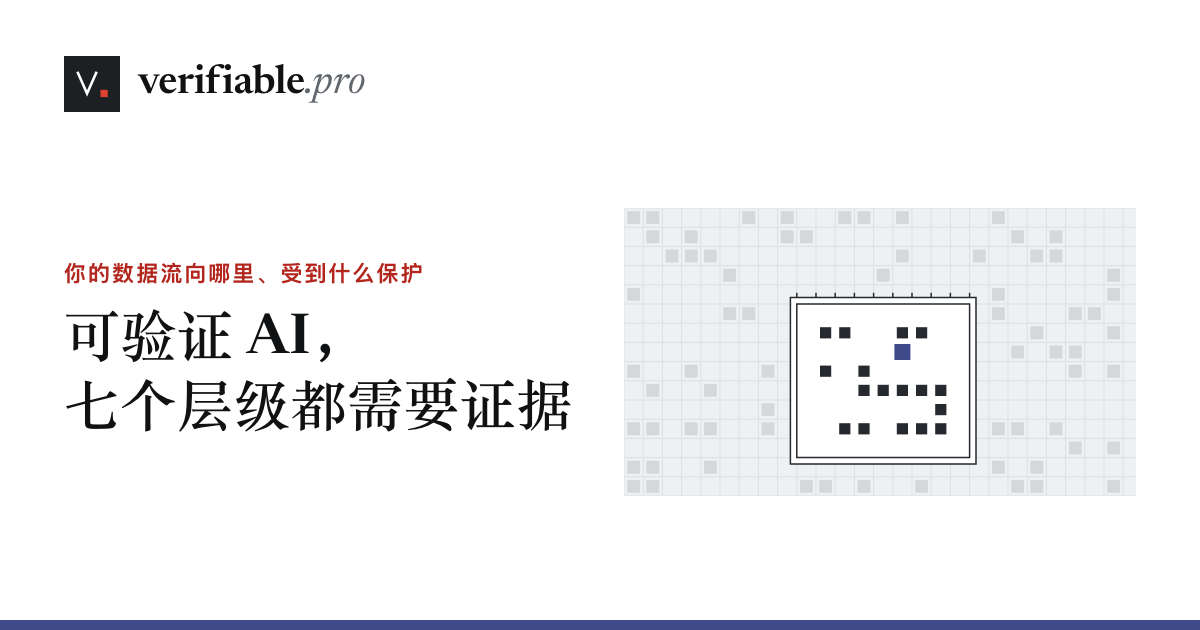
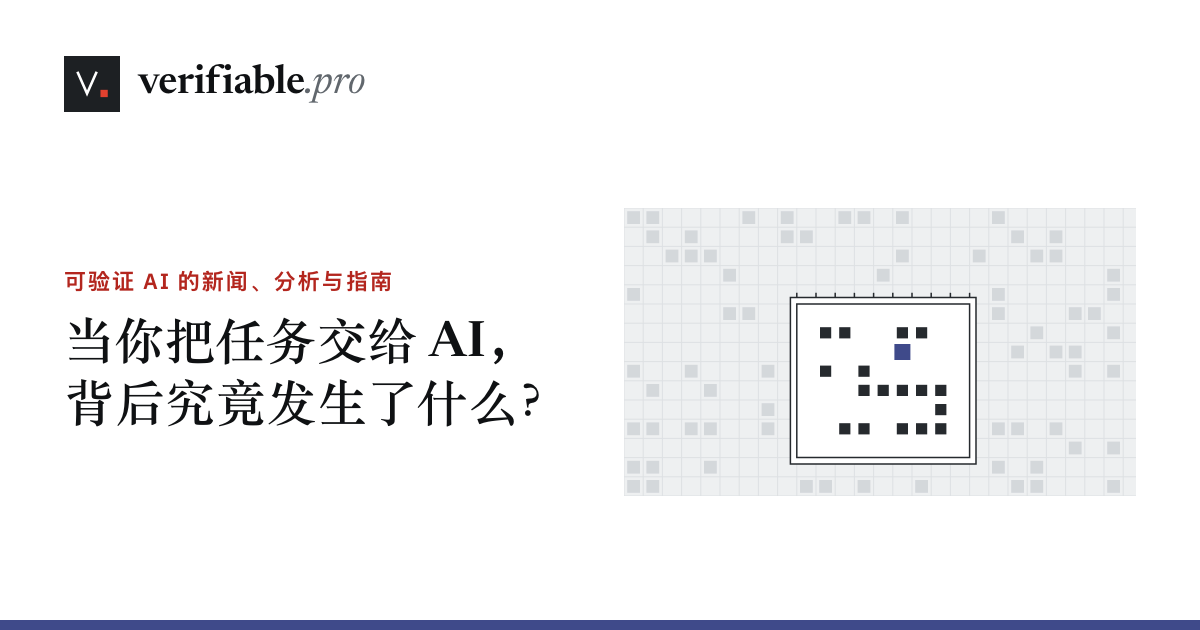
Clarify the homepage and refresh changed styles
Explain the purpose of verifiable AI in both languages, highlight the term, and update the homepage links and social cards. Version the stylesheet by its content so refreshed previews and deployments load the current colors.

Changed region(s): [[0.0308, 0.3921, 0.4317, 0.573], [0.0617, 0.6032, 0.4933, 0.6937]]

diff --git a/static/site.css b/static/site.css
@@ -4828,13 +4828,14 @@ a.hub-why:hover { color: var(--accent-strong); text-decoration: underline; text-
    ========================================================================== */
 
 /* --------------------------------------------------------------------------
-   20.1 Home band: kicker, tagline, a one-sentence positioning and links,
+   20.1 Home band: kicker, tagline, positioning and links,
    then the hero. The band is a query container and measures its own width
    in rem, so larger default text falls back to a narrower layout; 21.1
    sets the layouts.
    -------------------------------------------------------------------------- */
 .home { container: home / inline-size; }
-.home-kicker { margin-bottom: 0.85rem; font: 600 var(--fs-3)/1.4 var(--sans); color: var(--accent); }
+.home-kicker { margin-bottom: 0.85rem; font: 600 var(--fs-3)/1.4 var(--sans); color: var(--ink-2); }
+.home-emphasis { color: var(--accent); font-weight: 700; }
 .home-hero .home-positioning { max-width: 33rem; }
 
 /* --------------------------------------------------------------------------

diff --git a/tests/test_sitegen.py b/tests/test_sitegen.py
@@ -16,6 +16,7 @@ import types
 import unittest
 from html.parser import HTMLParser
 from pathlib import Path
+from urllib.parse import parse_qs, urlsplit
 
 ROOT = Path(__file__).resolve().parent.parent
 if str(ROOT) not in sys.path:
@@ -247,6 +248,11 @@ def parse_html(text):
     builder.feed(text)
     builder.close()
     return builder.root
+
+
+def site_stylesheet_href(doc):
+    return next(link.attrs["href"] for link in doc.find_all("link", rel="stylesheet")
+                if urlsplit(link.attrs["href"]).path.endswith("assets/site.css"))
 
 
 def norm(text):
@@ -3901,6 +3907,18 @@ class BuildOutputTests(unittest.TestCase):
     def path_steps(self):
         return self.model["tee"]["path"]
 
+    def test_stylesheet_version_matches_the_published_bytes(self):
+        css_bytes = (self.out / "assets" / "site.css").read_bytes()
+        self.assertEqual(css_bytes, (self.root / "static" / "site.css").read_bytes())
+        digest = hashlib.sha256(css_bytes).hexdigest()
+        for lang in content.LANGS:
+            article = self.articles(lang)[0]
+            for rel in (LANG_DIR[lang] + "index.html", LANG_DIR[lang] + f"articles/{article.slug}/index.html"):
+                with self.subTest(page=rel):
+                    href = urlsplit(site_stylesheet_href(self.dom(rel)))
+                    self.assertEqual(href.path, posixpath.relpath("assets/site.css", posixpath.dirname(rel) or "."))
+                    self.assertEqual(parse_qs(href.query), {"v": [digest[:16]]})
+
     # ----- retired interface ------------------------------------------------------
     def test_denylisted_phrases_are_absent_in_both_languages(self):
         # .txt and .webmanifest: llms.txt, the llms-full.txt files, robots.txt and the web app manifests
@@ -3953,11 +3971,8 @@ class BuildOutputTests(unittest.TestCase):
             self.assertTrue(h1[0].within(intro), rel)
             self.assertEqual(intro.find("p", cls="home-kicker").text(), norm(s["home_kicker"]), rel)
             self.assertEqual(intro.find("p", cls="home-positioning").text(), norm(s["home_lead"]), rel)
-            # one sentence: Vision says the rest, and the first link leads there
-            self.assertEqual(s["home_lead"].count(". ") + s["home_lead"].count("。"), 0 if lang == "en" else 1, rel)
-            self.assertLessEqual(len(s["home_lead"]), 100 if lang == "en" else 40, rel)
             self.assertEqual(self.links(rel, intro.find("p", cls="home-links")),
-                             [loc("/vision/", lang) + "#why-tees", loc("/learn/", lang) + "#tee-path"], rel)
+                             [loc("/vision/", lang) + "#problem", loc("/topics/", lang)], rel)
             # The maintainer and contributors link are in the footer, leaving the intro concise.
             head, lede = intro.kids("div")
             self.assertEqual((head.classes, lede.classes), ({"home-head"}, {"home-lede"}), rel)
@@ -5126,10 +5141,36 @@ class ChatModeBuildTests(unittest.TestCase):
             cfg = json.loads(CHAT_CONFIG_RE.search(text).group(1))
             self.assertEqual((cfg["mode"], cfg["api"]), ("live", "http://127.0.0.1:8787"), rel)
 
+    def test_same_stylesheet_keeps_its_version_across_builds(self):
+        self.assertEqual((self.off / "assets" / "site.css").read_bytes(),
+                         (self.live / "assets" / "site.css").read_bytes())
+        for rel in ("index.html", "zh/index.html"):
+            before = parse_html((self.off / rel).read_text(encoding="utf-8"))
+            after = parse_html((self.live / rel).read_text(encoding="utf-8"))
+            self.assertEqual(site_stylesheet_href(before), site_stylesheet_href(after), rel)
+
     def test_live_without_an_api_base_stops_the_build(self):
         result = build_site(Path(self.tmp.name) / "bad", "--chat", "live", "--chat-api", "")
         self.assertEqual(result.returncode, 1)
         self.assertIn("content error: chat.mode \"live\" needs chat.api_base", result.stderr)
+
+
+class StylesheetOverrideBuildTests(unittest.TestCase):
+    def test_css_override_publishes_and_versions_the_override_bytes(self):
+        with tempfile.TemporaryDirectory() as tmp:
+            css = Path(tmp) / "alternate.css"
+            css_bytes = b"/* alternate stylesheet */\r\nbody { color: #234567; }\r\n"
+            css.write_bytes(css_bytes)
+            out = Path(tmp) / "site"
+            result = build_site(out, "--css", str(css))
+            self.assertEqual(result.returncode, 0, result.stderr)
+            published = (out / "assets" / "site.css").read_bytes()
+            self.assertEqual(published, css_bytes)
+            digest = hashlib.sha256(published).hexdigest()
+            self.assertNotEqual(digest, hashlib.sha256((ROOT / "static" / "site.css").read_bytes()).hexdigest())
+            for rel in ("index.html", "zh/index.html"):
+                doc = parse_html((out / rel).read_text(encoding="utf-8"))
+                self.assertEqual(parse_qs(urlsplit(site_stylesheet_href(doc)).query), {"v": [digest[:16]]}, rel)
 
 
 

diff --git a/sitegen/render.py b/sitegen/render.py
@@ -346,6 +346,7 @@ class Site:
         self.lang = "en"
         self.current = "/"
         self.build_digest = ""
+        self.css_digest = ""
         self.year = dt.date.today().year
         self.chat = chat_settings(model["site"])
         self.analytics_id = content.analytics_id(model["site"]) if mode == "prod" else ""
@@ -804,6 +805,9 @@ class Site:
         og_url = f'\n<meta property="og:url" content="{esc(canonical)}">' if indexable else ""
         social = discover.social_meta(self, image_topic=image, alternate=alternate and indexable, article=article)
         viewer = f"\n{ARTIFACT_VIEWER_HINT}" if self.mode == "artifact" else ""
+        stylesheet = self.href('/assets/site.css')
+        if self.css_digest:
+            stylesheet += f"?v={self.css_digest[:16]}"
         head = f"""<title>{esc(full_title)}</title>{viewer}
 <meta name="description" content="{esc(search_description)}">
 {urls}
@@ -822,7 +826,7 @@ class Site:
 <link rel="preload" as="style" href="{FONTS}" data-font-css>
 <noscript><link rel="stylesheet" href="{FONTS}"></noscript>
 <script>try{{var t=localStorage.getItem("vp-theme");if(t==="light"||t==="dark")document.documentElement.setAttribute("data-theme",t)}}catch(e){{}}</script>
-<link rel="stylesheet" href="{esc(self.href('/assets/site.css'))}">
+<link rel="stylesheet" href="{esc(stylesheet)}">
 <script src="{esc(self.href('/assets/site.js'))}" defer></script>{head_extra}"""
         stack_data = f'\n<script type="application/json" id="stack-data">{self.stack_data()}</script>' if self.stack() else ""
         page = f"""<div class="site {esc(page_class)}" lang="{esc(lang_attr)}" data-root="{esc(self.root_rel())}" data-lang="{self.lang}">
@@ -1562,16 +1566,20 @@ class Site:
         on_path = self.path_slugs()
         guides = [a for a in articles if a.kind == "guide" and a.slug not in on_path][:3]
 
-        # The band: the intro (kicker and tagline, then the one-sentence positioning and
+        # The band: the intro (kicker and tagline, then the positioning and
         # two links, in two wrappers that wide layouts set apart), then the hero.
         hero = self.hero(articles)
-        links = (self.a(L("/vision/") + "#why-tees", esc(self.s("home_link_vision")) + ARROW)
-                 + self.a(L("/learn/") + "#tee-path", esc(self.s("home_link_path")) + ARROW))
+        links = (self.a(L("/vision/") + "#problem", esc(self.s("home_link_vision")) + ARROW)
+                 + self.a(L("/topics/"), esc(self.s("home_link_path")) + ARROW))
+        emphasis = esc(self.s("home_emphasis"))
+        emphasis_html = f'<strong class="home-emphasis">{emphasis}</strong>'
+        kicker = esc(self.s("home_kicker")).replace(emphasis, emphasis_html, 1)
+        lead = esc(self.s("home_lead")).replace(emphasis, emphasis_html, 1)
         band = f"""<section class="home-hero" aria-labelledby="home-title">
   <div class="home-intro">
-    <div class="home-head"><p class="home-kicker">{esc(self.s('home_kicker'))}</p><h1 class="home-tagline" id="home-title">{esc(self.s('tagline'))}</h1></div>
+    <div class="home-head"><p class="home-kicker">{kicker}</p><h1 class="home-tagline" id="home-title">{esc(self.s('tagline'))}</h1></div>
     <div class="home-lede">
-      <p class="home-positioning">{esc(self.s('home_lead'))}</p>
+      <p class="home-positioning">{lead}</p>
       <p class="home-links">{links}</p>
     </div>
   </div>

diff --git a/build.py b/build.py
@@ -576,6 +576,8 @@ def build(mode, out, css=None, mark=None, drafts=False, chat=None, chat_api=None
     if base != f"https://{indexnow['host']}":
         raise content.ContentError("indexnow.json host must match the canonical HTTPS site base_url")
 
+    css_bytes = (Path(css) if css else ROOT / "static" / "site.css").read_bytes()
+
     check_out_dir(out)
     if out.exists():
         shutil.rmtree(out)
@@ -583,6 +585,7 @@ def build(mode, out, css=None, mark=None, drafts=False, chat=None, chat_api=None
 
     site = Site(model, mode)
     site.build_digest = digest
+    site.css_digest = hashlib.sha256(css_bytes).hexdigest()
     site.hero_svg = scene  # with {{SCENE_TITLE}}, {{SCENE_DESC}} and {{SCENE_DESC_LIVE}} still to fill
     site.hero_anchors = anchors
     site.cards = cards
@@ -622,8 +625,7 @@ def build(mode, out, css=None, mark=None, drafts=False, chat=None, chat_api=None
 
     # with the assistant off, its script and stylesheet are not published either
     shutil.copytree(ROOT / "static", out / "assets", ignore=static_ignore(chat_off=chat_mode == "off"))
-    if css:
-        shutil.copyfile(css, out / "assets" / "site.css")
+    (out / "assets" / "site.css").write_bytes(css_bytes)
     # each lead image's spec beside the article's sources, and the image as loaded and hashed,
     # so the manifest's digests match the published files even if a file changed during the build
     for image in lead_images(model):

diff --git a/tools/check_links.py b/tools/check_links.py
@@ -4,7 +4,7 @@ import re
 import sys
 from html.parser import HTMLParser
 from pathlib import Path
-from urllib.parse import unquote
+from urllib.parse import unquote, urlsplit
 
 
 class Collector(HTMLParser):
@@ -35,17 +35,17 @@ def main(root):
             if link.startswith("/"):
                 problems.append(f"{f.relative_to(root)}: absolute link {link}")
                 continue
-            path, _, frag = link.partition("#")
-            target = (f.parent / unquote(path)).resolve() if path else f
+            parts = urlsplit(link)
+            target = (f.parent / unquote(parts.path)).resolve() if parts.path else f
             if target.is_dir():
                 problems.append(f"{f.relative_to(root)}: directory link {link}")
                 continue
             if not target.exists():
                 problems.append(f"{f.relative_to(root)}: missing {link}")
                 continue
-            if frag and target.suffix == ".html":
+            if parts.fragment and target.suffix == ".html":
                 ids = pages[target].ids if target in pages else set()
-                if frag not in ids:
+                if unquote(parts.fragment) not in ids:
                     problems.append(f"{f.relative_to(root)}: missing anchor {link}")
     print(f"checked {len(pages)} pages; {len(problems)} problems")
     for p in problems[:200]:

diff --git a/tools/og_images.py b/tools/og_images.py
@@ -171,7 +171,7 @@ body {{ position: relative; font-family: "IBM Plex Sans", sans-serif; color: {t[
 .plate {{ flex: none; width: 512px; height: 288px; background: {t['art-bg']}; }}
 .plate svg {{ display: block; width: 512px; height: 288px; }}
 .rule {{ position: absolute; left: 0; right: 0; bottom: 0; height: 10px; background: {card['hue']}; }}
-:lang(zh-CN) .kicker {{ font-family: "PingFang SC", "Hiragino Sans GB", "Noto Sans CJK SC", "Source Han Sans SC", "IBM Plex Sans", sans-serif;
+:lang(zh-CN) .kicker {{ font-family: "IBM Plex Sans", "PingFang SC", "Hiragino Sans GB", "Noto Sans CJK SC", "Source Han Sans SC", sans-serif;
   letter-spacing: 0.08em; }}
 :lang(zh-CN) .title {{ font-family: "Newsreader", "Songti SC", "Noto Serif CJK SC", "Source Han Serif SC", serif;
   font-weight: 600; letter-spacing: 0.01em; line-height: 1.24; word-break: keep-all; line-break: strict; }}

diff --git a/DESIGN.md b/DESIGN.md
@@ -6,12 +6,14 @@ The stylesheets hold the values. This document names the tokens and components a
 
 ## Concept
 
-### The home intro states the site's aim and points at the seven layers (26 October 2026)
+### The home intro asks what happens when AI takes on a task (26 October 2026)
 
-The owner found that the intro above the hero said neither what the site is for nor how it relates to the drawing, and asked for more direct words. People, and the agents acting for them, need to know whether the AI system they talk to protects them, and the site reports and analyzes the work toward AI that can be checked at all seven layers drawn.
+The owner asked that the intro explain what the site does, why verifiable AI matters, and the vision that all seven layers should be verifiable. The reason is concrete: as AI handles people's data and acts for them, they should be able to check who can access that data and whether AI stays within their permissions. The final headline opens with that everyday situation. This decision replaces the earlier 26 October wording, "Where your data goes and what protects it" and "Verifiable AI needs evidence at all seven layers", and the interim headline "AI should be verifiable at every layer." (AI 的每一层，都应可验证。). It also supersedes the earlier one-sentence positioning rule.
 
-- **The three lines.** The kicker names the reader's concern: "Where your data goes and what protects it" (你的数据流向哪里、受到什么保护). The tagline states the site's view beside the plates it describes: "Verifiable AI needs evidence at all seven layers" (可验证 AI，七个层级都需要证据). The one-sentence lead says what the site does at those layers: "We report and analyze that evidence at each layer shown here, so you and your agents can check it." It refers to the drawing as "shown here" (图中), because the drawing stands beside the intro on wide screens and below it on phones.
-- **The first link.** The tagline no longer spells out trusted execution environments, so the first link does: "Why we start from trusted execution environments (TEEs)" (我们为什么从可信执行环境（TEE）出发). In the 21rem column from 1184px, and on phones, it takes two lines.
+- **The kicker and tagline.** The kicker identifies the publication: "News, analysis, and guides on verifiable AI" (可验证 AI 的新闻、分析与指南). The tagline asks the reader: "What really happens when you hand a task to AI?" (当你把任务交给 AI，背后究竟发生了什么？).
+- **The lead.** Two sentences connect the reader's concern to the site's work: "As AI handles our data and acts on our behalf, we should be able to check who can access that data and whether the AI stays within the permissions we give it. We report on progress toward making AI systems verifiable across all seven layers, from hardware to governance." The Chinese edition reads: "当 AI 处理我们的数据、代表我们采取行动时，我们应当能够核查：谁能接触这些数据，AI 是否只在我们授权的范围内行动。我们报道让 AI 系统从硬件到治理、在全部七个层级都可验证的进展。" This replaces the old one-sentence limit of 100 English or 40 Chinese characters; the intro keeps its existing layout and typography.
+- **Emphasis.** The first "verifiable" or "可验证" in both the kicker and the lead is a semantic `strong`, set in `--accent` at weight 700. The rest of the kicker takes `--ink-2`, so the keyword stands out. The translations remain plain strings; the home template adds the emphasis to each language's term.
+- **The links.** "Why verifiable AI matters" (为什么 AI 需要可验证) leads to Vision's `#problem`; "Explore the seven layers" (探索七个层级) opens the Stack page at `/topics/`. Both use the page's language. The TEE hub and reading path remain available in the navigation and the home page's TEE block.
 - **The social cards.** The site's cards carry the new kicker and tagline. `tools/og_images.py` also accepts a Chinese font that Chrome reports by its localized name, such as 蘋方-簡 for PingFang SC. Twenty indexable pages share the site's card, whose alt text repeats the kicker and tagline, so the IndexNow fingerprint now leaves that alt text out: a change of kicker or tagline notifies the two home pages, not all twenty.
 
 ### Muse and Grok among the hero's examples (25 October 2026)
@@ -41,7 +43,7 @@ After the logos gained their names (the note below), the owner found that pointi
 
 The owner found the home page too wordy, naming the hero's caption, and asked that resting the pointer on one of the hero's small logos show that brand's name. Each block on the home page now keeps what a first-time reader needs there and leaves the explanation to the page it links to. This note retires the hero's caption and the legend's note, which older notes below still mention; the hero's layout, its cards and the checking of its layers are unchanged.
 
-- **What the home page leaves out.** The hero has no caption. What the caption explained (a conceptual illustration, the chain of evidence, the TEE layers, your data's path through the seven layers, and that the layers are positions in this site's own scheme) is in the scene's description for screen readers, and the Stack page explains the scheme to everyone. The note that the logos and names are examples, not endorsements, is read to screen readers right before the layer labels (`p.vh#hero-layers-note`); About says it in view. The positioning is one sentence, and the person's label, the hint and the legend's title keep one short line each; the legend no longer ends on a note that checking stops where the chain breaks, which the legend under the Stack page's table says. The TEE block lists the path's steps by kind, reading time and title, and what each step lets the reader do stays on Learn and the TEE hub. The guide cards under "Checks you can run" give each guide's title, step count and reading time; its dek stays on Learn's worksheet card and on the guide.
+- **What the home page leaves out.** The hero has no caption. What the caption explained (a conceptual illustration, the chain of evidence, the TEE layers, your data's path through the seven layers, and that the layers are positions in this site's own scheme) is in the scene's description for screen readers, and the Stack page explains the scheme to everyone. The note that the logos and names are examples, not endorsements, is read to screen readers right before the layer labels (`p.vh#hero-layers-note`); About says it in view. The positioning was one sentence until the 26 October decision above; the person's label, the hint and the legend's title keep one short line each. The legend no longer ends on a note that checking stops where the chain breaks, which the legend under the Stack page's table says. The TEE block lists the path's steps by kind, reading time and title, and what each step lets the reader do stays on Learn and the TEE hub. The guide cards under "Checks you can run" give each guide's title, step count and reading time; its dek stays on Learn's worksheet card and on the guide.
 - **The logos' names.** A mouse or pen that rests on a vendor mark for 150ms shows the mark's name in a small tooltip, in the page's language (欧盟 for the European Union on Chinese pages, as the Chinese articles write it), and moving on along the row's marks shows each name at once. A layer's card never lies over its own label's marks, so every mark's name shows, on a fresh page and after any rest. On touch screens a tap on a mark shows its name, and the open card names the row's examples, also for the part of a mark that a tablet's chevron lies over. A pointer sweeping the labels shows no name, and since the note above, pointing at a mark opens no layer (see *The marks' names* under [The hero](#the-hero)).
 
 ### Lead illustrations and a quieter home page (23 October 2026)
@@ -197,7 +199,7 @@ Chinese pages (`[lang="zh-CN"]`) redefine the type tokens. The tokens sit on the
 | Width | What changes |
 | --- | --- |
 | below 480px | The picture copies in the home rail, the TEE block and the TEE hub's coverage shrink to 5.5rem, so titles keep a wider column |
-| below 600px | The home page keeps its one-sentence positioning. The tier summary becomes one block per tier. The article meta line puts the dates on their own line |
+| below 600px | The home page keeps the full positioning paragraph. The tier summary becomes one block per tier. The article meta line puts the dates on their own line |
 | 600px | The section nav stops spreading; the Ask launcher shows its label, and the assistant opens as a sheet from the right instead of full screen. Related cards with pictures run two to a row, the third across the row beside its picture, until 960px |
 | 720px (45em) | The hero's labels stand in a column beside the scene, each joined to its plate by a leader line, and a layer's card opens beside the scene; the person's label sits under the scene, the hint beside it under the label column, and the legend under T1's label. Below 45em the hero is a list under the scene, which is centred at up to 24rem: each row has a chevron that opens its card in place, and T1 and T2 show a "Who checks" line at rest (the other rows show theirs once opened) |
 | 760px | Wider gutter, larger prose and a larger mark. River rows without a picture put the date beside the story. Stack page rows set the layer head beside the body; below 760px a row's body, topics and coverage are indented to the layer's name, clear of the chain line. The hub's two "establishes" lists, its reading lists and Learn's term cards go to two columns, attacks hang their dates in a left column, and the services tracker becomes a table (below 760px each service is a block with labelled cells). The resource ledger gets its right-hand metadata column. The TEE hub's coverage rows set their picture in an 8.5rem column at the right |
@@ -207,7 +209,7 @@ Chinese pages (`[lang="zh-CN"]`) redefine the type tokens. The tokens sit on the
 | 1280px | The home rail's picture copies grow to 7.5rem |
 
 - **The hero's height cap.** The figure is never wider than the screen's height allows: `max-width: max(36rem, calc((100svh - 11.25rem) / var(--hero-ratio)))`, where `--hero-ratio` is the scene's height over the figure's width. The 11.25rem leave room for the header, the band's top padding and up to 5.75rem for the stage's second row, which holds the person's label, with the count of layers checked on its name line, and the hint. In the masthead layout the cap is `min(50rem, max(36rem, calc((100svh - 9.75rem) / var(--hero-ratio))))`, because that figure is read scrolled up under the header. There is no `100vh` fallback: a declaration with `var()` is accepted when it is parsed, so a twin before it could never be used. From a 70rem band the band rises 1.25rem into the page's top padding, so the stage starts 89px down, and the figure keeps to the right of its column (`justify-self: end`), in line with the header's language switch; the spare width falls between the intro and the person. At 1440 × 900, 1536 × 864, 1366 × 768, 1280 × 800 and 1280 × 720 the whole stage, with the person's label and the hint, is on the first screen in both languages, and "Latest news" follows the figure's foot. The cap shrinks the figure on short screens: the person is about 135px tall at 1440 × 900, 110px at 1366 × 768 and 101px at 1280 × 720.
-- **Home.** Four sections, then the footer. The first band holds the intro and the hero. The intro is the kicker, the tagline (the page's `h1`), the one-sentence positioning, and two accent links ("Why we start from TEEs", "Start the TEE path"). The editor line ("Edited by Mengyuan Li", 编辑：Mengyuan Li, linked to the editor on Vision) is in the footer's last line on every page, after the copyright. The hero follows it: beside it from a 70rem band, under its masthead from 56rem, and under it, centred, on narrower screens. "Latest news" follows: the lead brief with its picture and dek and, behind a hairline from 960px, five more briefs (four below 960px), each with a small copy of its picture. Then come "Trusted execution environments" (the four newest TEE briefs that are not in "Latest news", each with a small copy of its picture, beside the five-step TEE path, whose steps give their kind, reading time and title; what each step lets the reader do is on Learn and the TEE hub) and "Checks you can run" (three cards for guides that are not on the path, each with its title, step count and reading time). The stack table is on the Stack page only; the hero's layer cards and links lead there. On phones the order is kicker, tagline, positioning, links, the hero's "Check all layers" button (the pause control once every layer is checked), its scene, the person's label with the count of layers checked, the hint, its list of layers with their chevrons (and the "Who checks" lines of T1 and T2), the legend and the two links to the Stack page, then "Latest news".
+- **Home.** Four sections, then the footer. The first band holds the intro and the hero. The intro is the kicker, the tagline (the page's `h1`), the two-sentence positioning, and two accent links ("Why verifiable AI matters" to Vision's `#problem`, "Explore the seven layers" to `/topics/`). The editor line ("Edited by Mengyuan Li", 编辑：Mengyuan Li, linked to the editor on Vision) is in the footer's last line on every page, after the copyright. The hero follows it: beside it from a 70rem band, under its masthead from 56rem, and under it, centred, on narrower screens. "Latest news" follows: the lead brief with its picture and dek and, behind a hairline from 960px, five more briefs (four below 960px), each with a small copy of its picture. Then come "Trusted execution environments" (the four newest TEE briefs that are not in "Latest news", each with a small copy of its picture, beside the five-step TEE path, whose steps give their kind, reading time and title; what each step lets the reader do is on Learn and the TEE hub) and "Checks you can run" (three cards for guides that are not on the path, each with its title, step count and reading time). The stack table is on the Stack page only; the hero's layer cards and links lead there. On phones the order is kicker, tagline, positioning, links, the hero's "Check all layers" button (the pause control once every layer is checked), its scene, the person's label with the count of layers checked, the hint, its list of layers with their chevrons (and the "Who checks" lines of T1 and T2), the legend and the two links to the Stack page, then "Latest news".
 - **Article block (from 1024px).** The article is a centred grid of reading measure, gutter and record column. Its named lines run `full | main | gutter | aside | full`. The head spans the main and aside columns, and prose, callouts and the sources share both edges. The About and Vision pages use the same measure and record column.
 - **Below 1024px.** One column: head, body, then the aside, with "On this page" first.
 - **Hub, Stack, Learn and Resources.** These pages run at full width without an aside. Their sections sit 3.5rem apart, each opening on a section head, so a text page reads as a sequence of short, ruled blocks.
@@ -451,6 +453,7 @@ The assistant ("Ask", 提问) is styled by `static/chat.css`, which the build li
 
 - `static/site.css` is the site's stylesheet: 18 numbered sections from tokens (1) to motion, forced colours and print (18), then the unnumbered restyle layer, then section 19, the TEE redesign (19.1 shared pieces, 19.2 story tags, 19.3 and 19.8 home, 19.4 the hero, 19.5 the stack, 19.6 tiers, 19.7 path lists, 19.9 the hub, 19.10 Learn, 19.11 Resources, 19.12 topic pages, 19.13 Latest, 19.14 articles and Vision, 19.15 Chinese, 19.16 responsive layout, 19.17 motion, forced colours and print), section 20, the owner review of 21 October (the home band, the evidence chain and the stack cards), and section 21, the hero's second round (21.1 the band, 21.2 the figure, its person's label and hint, legend and links, 21.3 the labels while a card is open and the ones it covers, 21.4 the chevron, 21.5 the layer cards, 21.6 phones, 21.7 the Stack page's "Who checks", 21.8 Chinese, 21.9 forced colours and print, 21.10 the vendor marks' names: the tooltip and the cards' names line on touch screens), and section 22, lead illustrations and the quieter home page (22.1 the picture, 22.2 the article's figure, 22.3 lists, 22.4 the home page's type, 22.5 forced colours and print). Later layers only add rules. `static/chat.css` styles the site assistant and is linked, with `static/chat.js`, only when `chat.mode` is not `off`; with `--chat off` neither file is published. Both stylesheets use the tokens defined in `site.css` and have no `@import`; fonts come from the page head's link. `build.py --css FILE` publishes another stylesheet in place of `site.css` for one build.
 - `static/site.js` is described under [Scripts](#scripts), `static/hero.js` under [The hero](#the-hero). The hero's scene is `sitegen/templates/hero-scene.svg`, the anchors of its leader lines `sitegen/templates/hero-anchors.json`, its layer icons, person icon and vendor marks `sitegen/logos.py`, and `build.py`'s `hero_scene_check` guards the parts of the scene that the page addresses. `tools/hero/person.py` and `tools/hero/geom.py` draw the scene's person and their moment, and `tools/hero/flow.py` the data that flows from their phone through every layer and back, and the loop it shares with the pulse (each with `--write` to update the scene and `--check` to compare it, which the unit tests run; see [The hero](#the-hero)).
+- **Stylesheet caching.** Every built page links `assets/site.css` with `?v=` followed by the first 16 hexadecimal characters of the SHA-256 digest of the exact CSS bytes published. CSS changes therefore get a new browser cache entry; rebuilding the same CSS keeps the same version. `--css FILE` versions and publishes that file's bytes instead. Preview links retain their relative paths, and link checking resolves the path independently of the query.
 - `tools/illustrate.py`, with `tools/scene/`, draws each article's lead illustration from its `illustration.json` (`--write`, `--check`, `--spec` for drafts, `--catalog`); the unit tests and CI run `--check`, `tools/scene/README.md` is its guide, and `sitegen/content.py` checks each picture against its `svg_sha256` and the SVG allowlist.
 - `tools/photos.py` makes each lead photo with headless Chrome: it crops the source to 3:2, applies the grade, writes the photo and its three copies without metadata and writes the photo spec (`--write`, `--draft` to look first, `--same-crop` to make the files again from the recorded boxes). `--check` needs no browser and the unit tests run it; `sitegen/content.py` checks each photo and copy against its digest, its type and its size, and the license against the content guide's list.
 - `tools/cdp.mjs` (Node 22 or later, with Google Chrome or Chromium: the browser at `$CHROME`, else the system's usual install) checks the layout:
@@ -466,7 +469,7 @@ The assistant ("Ask", 提问) is styled by `static/chat.css`, which the build li
 - **The evidence chain.** Each layer above T1 states in `content/topics.json` (`stack[].bind`) how its evidence is bound to the layer below, with a status: `deployed` (in use), `emerging` or `missing`. The Stack page's table draws a line through the layer codes: solid for deployed, dashed for emerging, two stubs and a gap for missing. The upper half of a row is the link from the layer above, the lower half the link to the layer below. The table also gives each binding in words, and a legend under it explains the line. The home page hero draws the same chain in its scene, at rest, with a legend of the chain as it is today (see [The hero](#the-hero)). A claim can be checked all the way up only while the chain is unbroken; where it breaks, checking stops.
 - **Who checks.** Each layer also says in `content/topics.json` (`stack[].checkers`) who outside the provider can check its claim, and with what evidence. It shows in the layer's card on the home page, as the "Who checks" line under a row on phones (at rest on T1 and T2, and on the other rows once opened), and under each claim in the Stack page's table.
 - **Stack cards.** A story's layer codes are a link to the first of its layers on the Stack page. On hover or keyboard focus, `site.js` opens a card with the whole stack from `#stack-data` and the story's layers marked. Touch screens, and pages without script, follow the link instead. The hero's layer cards are a different component (see [The hero](#the-hero)).
-- **Home band.** The intro is the kicker ("Where your data goes and what protects it"), the tagline ("Verifiable AI needs evidence at all seven layers"), a one-sentence lead and two links; the editor line is in the footer. From a 70rem band (1184px) it is a 21rem column beside the hero; between 56 and 70rem it is a masthead over the hero, the kicker and tagline beside the rest; below that it is one column over the hero. "Latest news" follows: the lead brief with its dek, and four more briefs beside it. The home page has no stack table.
+- **Home band.** The intro is the kicker ("News, analysis, and guides on verifiable AI"), the tagline ("What really happens when you hand a task to AI?"), a two-sentence lead and two links ("Why verifiable AI matters", "Explore the seven layers"); the editor line is in the footer. The wording and emphasis follow the 26 October decision above. From a 70rem band (1184px) it is a 21rem column beside the hero; between 56 and 70rem it is a masthead over the hero, the kicker and tagline beside the rest; below that it is one column over the hero. "Latest news" follows: the lead brief with its dek, and four more briefs beside it. The home page has no stack table.
 
 ### Owner decisions
 
@@ -475,7 +478,7 @@ The hero's second round (22 October 2026) left five choices to the owner, and it
 | # | Decision | Now | The alternative, and how to switch |
 | --- | --- | --- | --- |
 | 1 | The chain at rest | Drawn by binding status: solid, dashed, broken | Drawn whole at rest, with the statuses only while a layer is open: set `HERO_CHAIN_REST = "whole"` in `sitegen/render.py`, and replace the chain sentence of `hero_scene_desc` with "An indigo line rises from the GPU die through a ring on every plate and ends at the seal." (一条靛蓝色的线从 GPU 芯片升起，穿过每块平板上的一个圆环，止于印章。) |
-| 2 | The kicker | "Where your data goes and what protects it" (你的数据流向哪里、受到什么保护), since 26 October 2026 | "Evidence you can check, from the chip up" (从芯片往上，你能核查的证据), the kicker until then, or "An unbroken chain of evidence, from the chip up", only with the chain drawn whole: edit `home_kicker` and redraw the site's social cards |
+| 2 | The kicker | "News, analysis, and guides on verifiable AI" (可验证 AI 的新闻、分析与指南), since 26 October 2026 | Earlier options were "Where your data goes and what protects it" (你的数据流向哪里、受到什么保护) and "Evidence you can check, from the chip up" (从芯片往上，你能核查的证据); "An unbroken chain of evidence, from the chip up" requires the chain drawn whole: edit `home_kicker` and redraw the site's social cards |
 | 3 | The editor line | In the footer's last line, after the copyright | Remove `a.footer-editor` from `Site.footer()` and the `home_editor` string |
 | 4 | Who checks at T1 and T2 | "Your device" (你的设备), addressing the reader | "A user's device" (用户的设备) in the two `checkers` texts |
 | 5 | The person | The drawn figure, which passed the review at 1440 and 390 in both themes | The simplified silhouette: coat, head, legs and phone, no arms |
